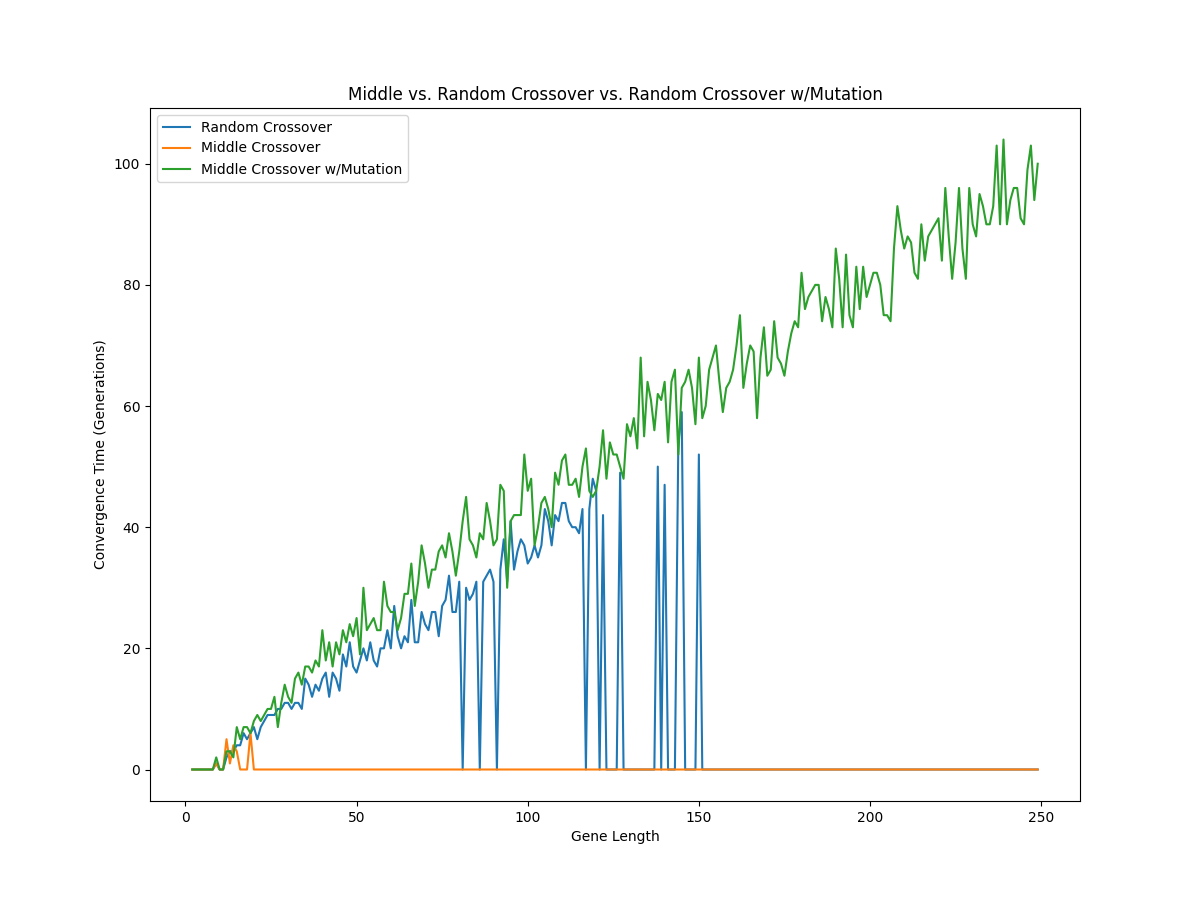
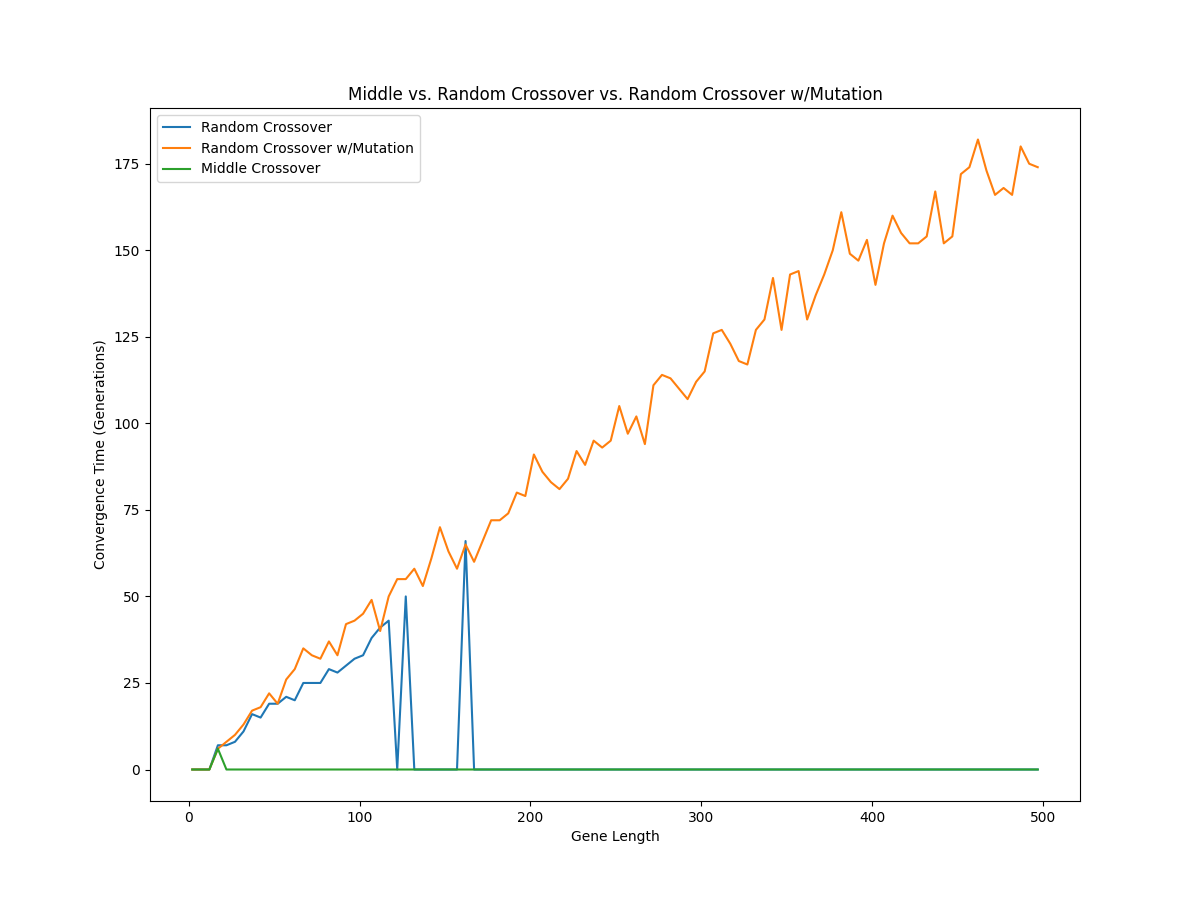
random crossover with mutation does MUCH better than purely random crossover in the long run

diff --git a/main.py b/main.py
@@ -16,8 +16,8 @@ def main():
     gene_length_to_random_split_mutate_convergences) = {}, {}, {}
 
     gene_length_low = MINIMUM_GENE_LENGTH
-    gene_length_high = 1_000
-    step_size = 1
+    gene_length_high = 500
+    step_size = 5
 
     for gene_length in tqdm(range(gene_length_low, gene_length_high, step_size)):
         population = generate_population(POPULATION_SIZE, gene_length = gene_length)
